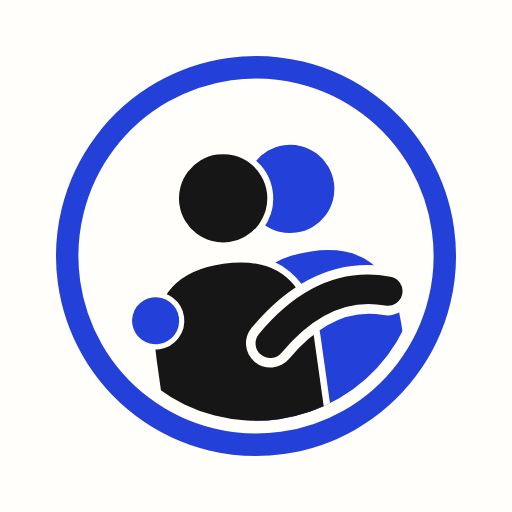
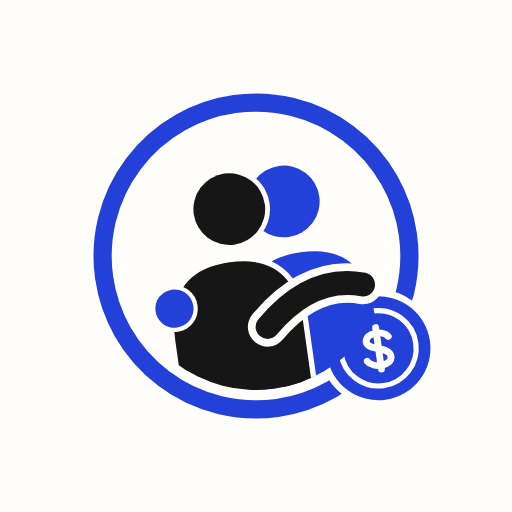
Ícono con moneda, Gastos e Inversiones con color, saludo mixto y efecto al bajar
- Ícono de la app: el sello con una moneda, más chico y con aire hasta los bordes
- Cada categoría tiene su color fijo (gráfico, lista, formulario e Inicio)
- Gastos: comparación con el mes anterior; barras del gráfico con color
- Inversiones: total en pesos, ganancia o pérdida y reparto por tipo con colores
- Saludo casi siempre en español y a veces en portugués
- Letras de la animación de entrada un poco más lentas
- Nuevo efecto al bajar: los bloques se despliegan desde abajo y se apilan arriba (reemplaza al borroso que fallaba en iPhone)

Claude-Session: https://claude.ai/code/session_011y4GNNWAVJnFz1a1nWDCtb

Changed region(s): [[0.0938, 0.0938, 0.9062, 0.9062], [0.3438, 0.2812, 0.6562, 0.5], [0.375, 0.5, 0.4062, 0.5312]]

diff --git a/index.html b/index.html
@@ -9,10 +9,10 @@
 <meta name="mobile-web-app-capable" content="yes">
 <meta name="apple-mobile-web-app-status-bar-style" content="black-translucent">
 <meta name="apple-mobile-web-app-title" content="Cuentas Claras">
-<link rel="manifest" href="manifest.webmanifest?v=10">
-<link rel="apple-touch-icon" href="icons/icon-180.png?v=10">
-<link rel="icon" href="icons/favicon.svg?v=10" type="image/svg+xml">
-<link rel="alternate icon" href="icons/icon-192.png?v=10">
+<link rel="manifest" href="manifest.webmanifest?v=11">
+<link rel="apple-touch-icon" href="icons/icon-180.png?v=11">
+<link rel="icon" href="icons/favicon.svg?v=11" type="image/svg+xml">
+<link rel="alternate icon" href="icons/icon-192.png?v=11">
 <style>
   /* ============================================================
      DISEÑO "TICKET DEL SÚPER"
@@ -105,6 +105,7 @@
   .chips{display:flex;gap:8px;flex-wrap:wrap}
   .chip{padding:8px 12px;border-radius:4px;background:var(--card2);font-size:13px}
   .chip.on{background:var(--accent-fondo);color:var(--accent-txt);font-weight:700}
+  .chip.on span{color:inherit!important}
   .monthnav{display:flex;align-items:center;justify-content:space-between;background:var(--card);border:1px solid var(--line);border-radius:var(--r);padding:6px;margin-bottom:12px}
   .monthnav button{width:40px;height:40px;border-radius:4px;font-size:20px}
   /* barra de abajo */
@@ -116,14 +117,8 @@
     background:var(--accent-fondo);color:var(--accent-txt);box-shadow:0 6px 18px rgba(0,0,0,.25);z-index:11;display:grid;place-items:center;padding:0;
     transition:transform .25s,opacity .25s}
   .fab.escondido{transform:translateY(24px) scale(.6);opacity:0;pointer-events:none}
-  /* Abajo de la pantalla, arriba de la barra: lo que todavía no subiste se ve borroso
-     (dos capas: una apenas borrosa más alta y otra más borrosa más abajo) */
-  .difuminado{position:fixed;left:0;right:0;bottom:calc(62px + env(safe-area-inset-bottom));height:120px;pointer-events:none;z-index:9}
-  .difuminado i{position:absolute;inset:0;display:block}
-  .difuminado i:first-child{backdrop-filter:blur(2px);-webkit-backdrop-filter:blur(2px);
-    -webkit-mask:linear-gradient(to top,#000 40%,transparent);mask:linear-gradient(to top,#000 40%,transparent)}
-  .difuminado i:last-child{backdrop-filter:blur(6px);-webkit-backdrop-filter:blur(6px);
-    -webkit-mask:linear-gradient(to top,#000 15%,transparent 70%);mask:linear-gradient(to top,#000 15%,transparent 70%)}
+  /* Efecto al bajar: cada bloque de la pantalla se mueve solo (lo maneja efectoScroll) */
+  #main > *{position:relative;z-index:1;transform-origin:50% 0}
   /* hoja que sube desde abajo */
   .overlay{position:fixed;inset:0;background:var(--overlay);z-index:20;display:none;align-items:flex-end;justify-content:center}
   .overlay.open{display:flex}
@@ -167,8 +162,9 @@
   .graf-val{font-size:10px;color:var(--muted);margin-bottom:4px;white-space:nowrap;letter-spacing:-.5px}
   .graf-col.on .graf-val{color:var(--txt);font-weight:700}
   .graf-barra{width:100%;max-width:38px;display:flex;flex-direction:column-reverse;gap:2px;overflow:hidden;min-height:2px}
-  .graf-barra i{display:block;width:100%;background:var(--graf)}
-  .graf-col.on .graf-barra i{background:var(--accent-fondo)}
+  .graf-barra i{display:block;width:100%;background:color-mix(in srgb,var(--accent) 28%,var(--graf))}
+  :root[data-tema="oscuro"] .graf-barra i{background:color-mix(in srgb,var(--accent) 16%,var(--graf))}
+  .graf-barra.actual i{background:var(--accent-fondo)}
   .graf-mes{font-size:11px;color:var(--muted);margin-top:6px;padding-top:6px;border-top:1.5px solid var(--txt);width:100%;text-align:center}
   .graf-col.on .graf-mes{color:var(--txt);font-weight:700}
   .leyenda{display:grid;gap:8px;margin-top:14px;font-size:14px}
@@ -187,6 +183,8 @@
   .i-in{width:1.2em;height:1.2em;display:inline-block;vertical-align:-.24em;margin-right:5px}
   .con-ico{display:flex;align-items:center;gap:2px}
   .ico{color:var(--txt)} .ico .i{width:22px;height:22px}
+  .ico.cat{background:color-mix(in srgb,var(--c) 16%,var(--card));color:var(--c)}
+  .ico.cat .i .ac{stroke:currentColor}
   nav button .i{width:25px;height:25px;margin-bottom:2px}
   .pill .i-in{width:1em;height:1em;margin-right:4px;vertical-align:-.15em}
   .pill.sin-sello{transform:none;border-color:var(--line);color:var(--txt)}
@@ -204,6 +202,16 @@
   @keyframes aparecer{from{transform:scale(0);opacity:0}to{transform:scale(1);opacity:1}}
   @keyframes subir{from{transform:translateY(40px);opacity:0}to{transform:none;opacity:1}}
   @keyframes fundido{from{opacity:0}to{opacity:1}}
+  .compara{display:inline-block;margin-top:10px;font-size:12px;padding:5px 9px;border-radius:4px;background:var(--card2);color:var(--muted)}
+  .compara.sube{background:color-mix(in srgb,var(--red) 14%,var(--card));color:var(--red)}
+  .compara.baja{background:color-mix(in srgb,var(--green) 14%,var(--card));color:var(--green)}
+  /* inversiones */
+  .reparto{display:flex;gap:2px;height:12px;margin:14px 0 10px;overflow:hidden}
+  .reparto i{display:block;height:100%}
+  .reparto-ley{display:flex;flex-wrap:wrap;gap:6px 14px;font-size:12px;color:var(--muted)}
+  .reparto-ley span{display:flex;align-items:center;gap:6px}
+  .gan{display:inline-block;font-size:12px;font-weight:700;padding:3px 7px;border-radius:4px;margin-top:3px}
+  .gan.pos{background:color-mix(in srgb,var(--green) 15%,var(--card))} .gan.neg{background:color-mix(in srgb,var(--red) 15%,var(--card))}
   /* logo */
   .logo text{font-family:'Space Grotesk',system-ui,sans-serif}
   .logo-bienvenida{width:190px;height:190px;margin:0 auto 6px}
@@ -216,7 +224,6 @@
 <main id="main"></main>
 <button class="fab" id="fab" aria-label="Agregar"><svg width="26" height="26" viewBox="0 0 24 24" fill="none" stroke="currentColor" stroke-width="2.6" stroke-linecap="round"><path d="M12 5v14M5 12h14"/></svg></button>
 <nav id="nav"></nav>
-<div class="difuminado" id="difuminado" aria-hidden="true"><i></i><i></i></div>
 <div class="overlay" id="overlay"><div class="sheet" id="sheet"></div></div>
 <div class="toast" id="toast"></div>
 <div class="intro" id="intro" aria-hidden="true"></div>
@@ -228,7 +235,7 @@
    ============================================================ */
 
 const STORAGE_KEY = 'finanzas-v1';
-const VERSION_APP = 10; // subilo junto con el de sw.js, así sabés en Ajustes qué versión tenés
+const VERSION_APP = 11; // subilo junto con el de sw.js, así sabés en Ajustes qué versión tenés
 
 // Logo "Cuentas claras": usa los colores del modo actual (azul de día, cereza de noche)
 function logoSello(u='l', A='var(--txt)', B='var(--accent)', P='var(--bg)'){
@@ -346,6 +353,15 @@ function fechaCorta(iso){ const [y,m,d]=iso.split('-'); return `${d}/${m}`; }
 
 function billetera(id){ return state.billeteras.find(b=>b.id===id); }
 function monedaDe(mov){ const b=billetera(mov.billeteraId); return b ? b.moneda : (mov.moneda||'ARS'); }
+// Cada categoría tiene SIEMPRE el mismo color (en el gráfico, la lista y el formulario)
+const COLOR_CAT = {
+  comida:'#e8833a', super:'#3f8ee6', transporte:'#17a57a', salidas:'#d9a400', servicios:'#d5568a', facu:'#7b6be0',
+  gym:'#2f9e44', ropa:'#e05656', salud:'#14a3b8', subs:'#a35bd6', cuotas:'#7d8597', otros:'#9a8a78',
+  laburo:'#2f9e6b', sueldo:'#2f9e6b', changa:'#c98a1d', regalo:'#d5568a', otros_i:'#5b84d6',
+};
+function colorCat(id){ return COLOR_CAT[id] || '#9a8a78'; }
+// Cuadradito con el ícono de la categoría, teñido con su color
+function icoCat(id){ const c=categoria(id); return `<div class="ico cat" style="--c:${colorCat(id)}">${ic(c.ic)}</div>`; }
 function categoria(id){ return [...CATEGORIAS,...CATEGORIAS_INGRESO].find(c=>c.id===id) || {nombre:'Otros',ic:'otros'}; }
 
 // Convierte a pesos usando la cotización guardada (si no hay, devuelve null para USD)
@@ -365,12 +381,14 @@ function saldoBilletera(b){
   return saldo;
 }
 
+// Cada vez que abrís la app se sortea: 3 de cada 4 veces en español, 1 de cada 4 en portugués
+const SALUDO_PORTUGUES = Math.random() < 0.25;
 function saludo(){
   const h = new Date().getHours();
-  if(h<6)  return 'Boa noite';
-  if(h<13) return 'Bom dia';
-  if(h<20) return 'Boa tarde';
-  return 'Boa noite';
+  const momento = h<6 ? 'noche' : h<13 ? 'dia' : h<20 ? 'tarde' : 'noche';
+  const es = {dia:'Buen día', tarde:'Buenas tardes', noche:'Buenas noches'};
+  const pt = {dia:'Bom dia',  tarde:'Boa tarde',     noche:'Boa noite'};
+  return (SALUDO_PORTUGUES ? pt : es)[momento];
 }
 
 // ---------- Cotización del dólar ----------
@@ -630,12 +648,13 @@ function hayUSDT(){ return state.billeteras.some(b=>b.moneda==='USDT') || state.
 // ============================================================
 function render(){
   if(!state.usuario){ renderBienvenida(); return; }
-  $('#nav').style.display='flex'; $('#difuminado').style.display='block';
+  $('#nav').style.display='flex';
   $('#fab').style.display = (vista==='ajustes') ? 'none' : 'grid';
   renderNav();
   const vistas = {inicio:vInicio, gastos:vGastos, cuotas:vCuotas, inversiones:vInversiones, ajustes:vAjustes};
   $('#main').innerHTML = vistas[vista]();
   window.scrollTo(0,0);
+  pedirEfecto();
 }
 
 function renderNav(){
@@ -654,7 +673,7 @@ function irA(v){ vista=v; $('#fab').classList.remove('escondido'); render(); }
 // ----- Bienvenida (elegir nombre de usuario) -----
 let emojiElegido = '😎';
 function renderBienvenida(){
-  $('#nav').style.display='none'; $('#fab').style.display='none'; $('#difuminado').style.display='none';
+  $('#nav').style.display='none'; $('#fab').style.display='none';
   $('#main').innerHTML = `
     <div class="welcome">
       <div class="logo-bienvenida">${logoSello('bv')}</div>
@@ -787,8 +806,8 @@ function vInicio(){
       ${cats.length ? cats.map(([id,val])=>{
         const c=categoria(id);
         return `<div style="margin:10px 0">
-          <div class="row"><span class="con-ico">${ici(c.ic)} ${c.nombre}</span><b>${plata(val)}</b></div>
-          <div class="bar"><i style="width:${Math.max(4,val/maxCat*100)}%"></i></div></div>`;
+          <div class="row"><span class="con-ico"><span style="color:${colorCat(id)};display:flex">${ici(c.ic)}</span> ${c.nombre}</span><b>${plata(val)}</b></div>
+          <div class="bar"><i style="width:${Math.max(4,val/maxCat*100)}%;background:${colorCat(id)}"></i></div></div>`;
       }).join('') : `<div class="empty">Cargá tu primer gasto con el botón <b>+</b></div>`}
     </div>
 
@@ -801,8 +820,6 @@ function vInicio(){
 
 // ----- Gráfico: gastos de los últimos 6 meses -----
 // Colores pensados para que se distingan bien entre sí (también para daltónicos)
-const COLORES_GRAF = ['#3987e5','#d95926','#199e70','#c98500','#d55181','#008300','#9085e9'];
-const GRIS_RESTO = '#5b6272';
 let desgloseMes = null; // el mes que tocaste en el gráfico (null = ninguno abierto)
 
 function gastosPorCategoria(ym){
@@ -833,8 +850,8 @@ function graficoMeses(){
   // Cada categoría tiene SIEMPRE el mismo color: las 7 donde más gastaste en estos meses tienen color propio, el resto va en gris
   const sumas = {};
   datos.forEach(d=>Object.entries(d.cats).forEach(([k,v])=>sumas[k]=(sumas[k]||0)+v));
-  const top = Object.entries(sumas).sort((a,b)=>b[1]-a[1]).slice(0,7).map(x=>x[0]);
-  const colorDe = id => top.includes(id) ? COLORES_GRAF[top.indexOf(id)] : GRIS_RESTO;
+  const orden = Object.entries(sumas).sort((a,b)=>b[1]-a[1]).map(x=>x[0]); // las más grandes abajo en la barra
+  const colorDe = id => colorCat(id);
 
   const ALTO = 120; // alto máximo de una barra, en píxeles
   const max = Math.max(...datos.map(d=>d.total));
@@ -842,11 +859,9 @@ function graficoMeses(){
 
   const barra = d => {
     const alto = Math.max(2, Math.round(d.total/max*ALTO));
-    if(d!==abierto || !d.total) return `<div class="graf-barra" style="height:${alto}px"><i style="flex:1"></i></div>`;
+    if(d!==abierto || !d.total) return `<div class="graf-barra ${d.ym===mesActual()?'actual':''}" style="height:${alto}px"><i style="flex:1"></i></div>`;
     // Barra abierta: un pedazo por categoría (abajo las más grandes) y el resto junto en gris
-    const resto = Object.entries(d.cats).filter(([id])=>!top.includes(id)).reduce((a,[,v])=>a+v,0);
-    const pedazos = top.filter(id=>d.cats[id]).map(id=>({v:d.cats[id], color:colorDe(id)}));
-    if(resto) pedazos.push({v:resto, color:GRIS_RESTO});
+    const pedazos = orden.filter(id=>d.cats[id]).map(id=>({v:d.cats[id], color:colorDe(id)}));
     return `<div class="graf-barra" style="height:${alto}px">${pedazos.map(p=>`<i style="flex:${p.v} 1 0;min-height:2px;background:${p.color}"></i>`).join('')}</div>`;
   };
 
@@ -871,6 +886,15 @@ function graficoMeses(){
 }
 
 // ----- Gastos -----
+// "Gastaste 12% más que en Octubre": rojo si gastaste más, verde si gastaste menos
+function comparacionMes(ym){
+  const total = m => Object.values(gastosPorCategoria(m)).reduce((a,b)=>a+b,0);
+  const ahora = total(ym), antes = total(moverMes(ym,-1));
+  if(!antes || !ahora) return '';
+  const dif = (ahora-antes)/antes*100, mas = dif>0, mesAnt = nombreMes(moverMes(ym,-1)).split(' ')[0];
+  if(Math.abs(dif)<1) return `<div class="compara">Igual que en ${mesAnt}</div>`;
+  return `<div class="compara ${mas?'sube':'baja'}"><b>${mas?'↑':'↓'} ${Math.abs(dif).toFixed(0)}%</b> ${mas?'más':'menos'} que en ${mesAnt}</div>`;
+}
 function vGastos(){
   const lista = state.movimientos.filter(m=>m.fecha.startsWith(mesVisto)).sort((a,b)=>b.fecha.localeCompare(a.fecha) || b.id.localeCompare(a.id));
   const gARS = lista.filter(m=>m.tipo==='gasto'&&monedaDe(m)==='ARS').reduce((a,m)=>a+m.monto,0);
@@ -889,17 +913,18 @@ function vGastos(){
       <b>${nombreMes(mesVisto)}</b>
       <button onclick="mesVisto=moverMes(mesVisto,1);render()">›</button>
     </div>
-    <div class="card">
+    <div class="card total-mes">
       <div class="label">Total gastado</div>
       <div class="big">${plata(gARS)}</div>
       ${gUSD?`<div class="s">+ ${plata(gUSD,'USD')}</div>`:''}
+      ${comparacionMes(mesVisto)}
     </div>
     ${Object.keys(porDia).length ? Object.entries(porDia).map(([dia,movs])=>`
       <div class="label" style="margin:14px 4px 6px">${new Date(dia+'T12:00').toLocaleDateString('es-AR',{weekday:'long',day:'numeric',month:'short'})}</div>
       <div class="card" style="padding:4px 16px">
         ${movs.map(m=>{ const c=categoria(m.categoria), b=billetera(m.billeteraId);
           return `<div class="item" onclick="formMovimiento('${m.id}')">
-            <div class="ico">${ic(c.ic)}</div>
+            ${icoCat(m.categoria)}
             <div class="grow"><div class="t">${esc(m.nota||c.nombre)}</div><div class="s">${c.nombre} · ${esc(b?b.nombre:'—')}</div></div>
             <div class="amt ${m.tipo==='ingreso'?'pos':''}">${m.tipo==='ingreso'?'+':'-'}${plata(m.monto,monedaDe(m))}</div></div>`;
         }).join('')}
@@ -1031,33 +1056,47 @@ function pagarMensualidad(id){
 }
 
 // ----- Inversiones -----
+// Ícono y color para cada tipo de inversión
+const TIPO_INV = {
+  'Plazo fijo':['billetera','#3f8ee6'], 'FCI':['grafico','#17a57a'], 'Dólares':['dolar','#2f9e44'], 'Cripto':['usdt','#d9a400'],
+  'Acciones/CEDEARs':['grafico','#7b6be0'], 'Bonos':['recibo','#d5568a'], 'Otro':['otros','#9a8a78'],
+};
+function tipoInv(t){ return TIPO_INV[t] || TIPO_INV.Otro; }
 function vInversiones(){
-  const tot = mon => {
-    const l = state.inversiones.filter(i=>i.moneda===mon);
-    return {inv:l.reduce((a,i)=>a+i.invertido,0), act:l.reduce((a,i)=>a+i.valorActual,0)};
-  };
-  const ars = tot('ARS'), usd = tot('USD'), usdt = tot('USDT');
-  const usdtPesos = aPesos(usdt.act,'USDT');
-  const gan = (inv,act) => { const g=act-inv, p=inv?g/inv*100:0; return `<span class="${g>=0?'pos':'neg'}">${g>=0?'+':''}${p.toFixed(1)}%</span>`; };
+  const l = state.inversiones;
+  // Todo pasado a pesos para poder sumarlo y compararlo
+  let puse=0, vale=0; const porTipo={}, sinCotizar=[];
+  for(const i of l){
+    const pi=aPesos(i.invertido,i.moneda), pa=aPesos(i.valorActual,i.moneda);
+    if(pi==null||pa==null){ sinCotizar.push(i); continue; }
+    puse+=pi; vale+=pa; porTipo[i.tipo]=(porTipo[i.tipo]||0)+pa;
+  }
+  const g = vale-puse, gp = puse ? g/puse*100 : 0;
+  const tipos = Object.entries(porTipo).sort((a,b)=>b[1]-a[1]);
+  const gan = (inv,act) => { const d=act-inv, p=inv?d/inv*100:0; return `<span class="gan ${d>=0?'pos':'neg'}">${d>=0?'↑ +':'↓ '}${p.toFixed(1)}%</span>`; };
 
   return `
     <h1>Inversiones</h1>
     <p class="sub">Cuánto pusiste y cuánto vale hoy.</p>
-    <div class="grid2" style="margin-bottom:12px">
-      <div class="card"><div class="label">En pesos</div><div class="mid">${plata(ars.act)}</div><div class="s">${ars.inv?gan(ars.inv,ars.act):'—'}</div></div>
-      <div class="card"><div class="label">En dólares</div><div class="mid">${plata(usd.act,'USD')}</div><div class="s">${usd.inv?gan(usd.inv,usd.act):'—'}</div></div>
-    </div>
-    ${usdt.act?`<div class="card"><div class="label con-ico">${ici('usdt')} En USDT</div><div class="mid">${plata(usdt.act,'USDT')}</div>
-      <div class="s">${usdtPesos!=null?`≈ ${plata(Math.round(usdtPesos))} vendiendo en ${nombreExchange()}`:'Sin cotización todavía'}</div></div>`:''}
+    ${l.length ? `
+    <div class="card hero">
+      <div class="label">Tus inversiones valen hoy</div>
+      <div class="big">${plata(Math.round(vale))}</div>
+      <div class="s">Pusiste ${plata(Math.round(puse))}</div>
+      ${puse?`<div class="compara ${g>=0?'baja':'sube'}"><b>${g>=0?'↑ +':'↓ −'}${plata(Math.abs(Math.round(g)))}</b> · ${g>=0?'+':''}${gp.toFixed(1)}% ${g>=0?'de ganancia':'de pérdida'}</div>`:''}
+      ${tipos.length>1 ? `<div class="reparto">${tipos.map(([t,v])=>`<i style="flex:${v};background:${tipoInv(t)[1]}"></i>`).join('')}</div>
+        <div class="reparto-ley">${tipos.map(([t,v])=>`<span><i class="punto" style="background:${tipoInv(t)[1]}"></i>${esc(t)} ${Math.round(v/vale*100)}%</span>`).join('')}</div>`:''}
+      ${sinCotizar.length?`<div class="s" style="margin-top:8px">Faltan cotizaciones para sumar ${sinCotizar.length} inversión${sinCotizar.length>1?'es':''}.</div>`:''}
+    </div>` : ''}
     <div class="card" style="padding:4px 16px">
-      ${state.inversiones.map(i=>`
-        <div class="item" onclick="formInversion('${i.id}')">
-          <div class="ico">${ic('grafico')}</div>
+      ${l.map(i=>{ const [icn,col]=tipoInv(i.tipo); const enP=i.moneda!=='ARS'?enPesosTxt(i.valorActual,i.moneda):'';
+        return `<div class="item" onclick="formInversion('${i.id}')">
+          <div class="ico cat" style="--c:${col}">${ic(icn)}</div>
           <div class="grow"><div class="t">${esc(i.nombre)}</div><div class="s">${esc(i.tipo)}</div><div class="s">Pusiste ${plata(i.invertido,i.moneda)}</div></div>
-          <div style="text-align:right"><div class="amt">${plata(i.valorActual,i.moneda)}</div><div class="s">${gan(i.invertido,i.valorActual)}</div></div>
-        </div>`).join('') || `<div class="empty">Todavía no cargaste inversiones</div>`}
+          <div style="text-align:right"><div class="amt">${plata(i.valorActual,i.moneda)}</div>${enP?`<div class="s">${enP}</div>`:''}${gan(i.invertido,i.valorActual)}</div>
+        </div>`;}).join('') || `<div class="empty">Todavía no cargaste inversiones.<br>Tocá el botón + para agregar la primera.</div>`}
     </div>
-    <p class="s" style="text-align:center">Tocá una inversión para actualizar cuánto vale.</p>`;
+    ${l.length?`<p class="s" style="text-align:center">Tocá una inversión para actualizar cuánto vale.</p>`:''}`;
 }
 
 // ----- Ajustes -----
@@ -1204,7 +1243,7 @@ function formMovimiento(id){
   catMov = m ? m.categoria : (tipoMov==='gasto'?'comida':'laburo');
   const pintar = () => {
     const cats = tipoMov==='gasto'?CATEGORIAS:CATEGORIAS_INGRESO;
-    $('#mCats').innerHTML = cats.map(c=>`<button class="chip ${c.id===catMov?'on':''}" onclick="catMov='${c.id}';this.parentNode.querySelectorAll('.chip').forEach(x=>x.classList.remove('on'));this.classList.add('on')">${ici(c.ic)} ${c.nombre}</button>`).join('');
+    $('#mCats').innerHTML = cats.map(c=>`<button class="chip ${c.id===catMov?'on':''}" onclick="catMov='${c.id}';this.parentNode.querySelectorAll('.chip').forEach(x=>x.classList.remove('on'));this.classList.add('on')"><span style="color:${colorCat(c.id)}">${ici(c.ic)}</span>${c.nombre}</button>`).join('');
     document.querySelectorAll('#mTipo button').forEach(b=>b.classList.toggle('on', b.dataset.t===tipoMov));
     $('#mBilleLbl').textContent = tipoMov==='gasto' ? '¿De qué billetera sale?' : '¿A qué billetera entra?';
   };
@@ -1462,6 +1501,46 @@ function cambiarTema(t){ state.tema=t; save(); aplicarTema(); render(); }
 celuOscuro.addEventListener('change', aplicarTema); // si cambiás el modo del celu con la app abierta
 
 // ============================================================
+//  EFECTO AL BAJAR
+//  - Los bloques que vienen de abajo aparecen agrupados (montados sobre el de arriba),
+//    más chicos y borrosos, y se despliegan a medida que suben.
+//  - Los que se van por arriba se achican y se apilan atrás del siguiente.
+//  Si todo entra en la pantalla, no pasa nada.
+// ============================================================
+const ZONA_ABAJO = 160, ZONA_ARRIBA = 110;
+const limitar = (x,a,b)=>Math.min(b,Math.max(a,x));
+let efectoPendiente = false;
+function efectoScroll(){
+  efectoPendiente = false;
+  const bloques = [...$('#main').children];
+  const reducir = window.matchMedia('(prefers-reduced-motion: reduce)').matches;
+  const hayParaBajar = document.documentElement.scrollHeight > window.innerHeight + 20;
+  const piso = window.innerHeight - ($('#nav').offsetHeight || 0); // donde empieza la barra de abajo
+  for(const el of bloques){
+    if(reducir || !hayParaBajar || !state.usuario){ el.style.transform = el.style.filter = el.style.opacity = el.style.zIndex = ''; continue; }
+    const r = el.getBoundingClientRect();
+    const abajo  = 1 - limitar((piso - r.top) / ZONA_ABAJO, 0, 1);   // 1 = recién asomando abajo, 0 = ya desplegado
+    const arriba = 1 - limitar(r.bottom / ZONA_ARRIBA, 0, 1);        // 1 = casi fuera por arriba, 0 = normal
+    if(abajo > 0){
+      el.style.transform = `translateY(${-abajo*30}px) scale(${1-abajo*.06})`;
+      el.style.filter = `blur(${(abajo*4).toFixed(1)}px)`;
+      el.style.opacity = (1-abajo*.5).toFixed(2);
+      el.style.zIndex = 0;  // queda atrás del bloque de arriba, como agrupado
+    } else if(arriba > 0){
+      el.style.transform = `translateY(${arriba*22}px) scale(${1-arriba*.08})`;
+      el.style.filter = arriba>.3 ? `blur(${((arriba-.3)*3).toFixed(1)}px)` : '';
+      el.style.opacity = (1-arriba*.7).toFixed(2);
+      el.style.zIndex = 0;  // se mete atrás del siguiente, como apilándose
+    } else {
+      el.style.transform = el.style.filter = el.style.opacity = el.style.zIndex = '';
+    }
+  }
+}
+function pedirEfecto(){ if(!efectoPendiente){ efectoPendiente = true; requestAnimationFrame(efectoScroll); } }
+window.addEventListener('scroll', pedirEfecto, {passive:true});
+window.addEventListener('resize', pedirEfecto);
+
+// ============================================================
 //  ANIMACIÓN DE ENTRADA
 //  1) aparece el anillo desde el medio, 2) suben las personitas,
 //  3) las letras se van escribiendo una por una en su lugar, 4) se desvanece.
@@ -1481,7 +1560,7 @@ function mostrarIntro(){
       tp.appendChild(sp); letras.push(sp);
     }
   });
-  const inicio = reducir ? 0 : 950, paso = reducir ? 0 : 34;
+  const inicio = reducir ? 0 : 950, paso = reducir ? 0 : 58;
   letras.forEach((sp,i)=>setTimeout(()=>sp.classList.add('ya'), inicio + i*paso));
   const fin = inicio + letras.length*paso;
   el.style.setProperty('--fin', fin+'ms');

diff --git a/sw.js b/sw.js
@@ -1,6 +1,6 @@
 // Service worker: guarda la app en el celular para que funcione sin internet.
 // Cada vez que cambies algo de la app, subí este número (v1 -> v2) para que el celu baje la versión nueva.
-const VERSION = 'finanzas-v10';
+const VERSION = 'finanzas-v11';
 const ARCHIVOS = [
   './',
   './index.html',
